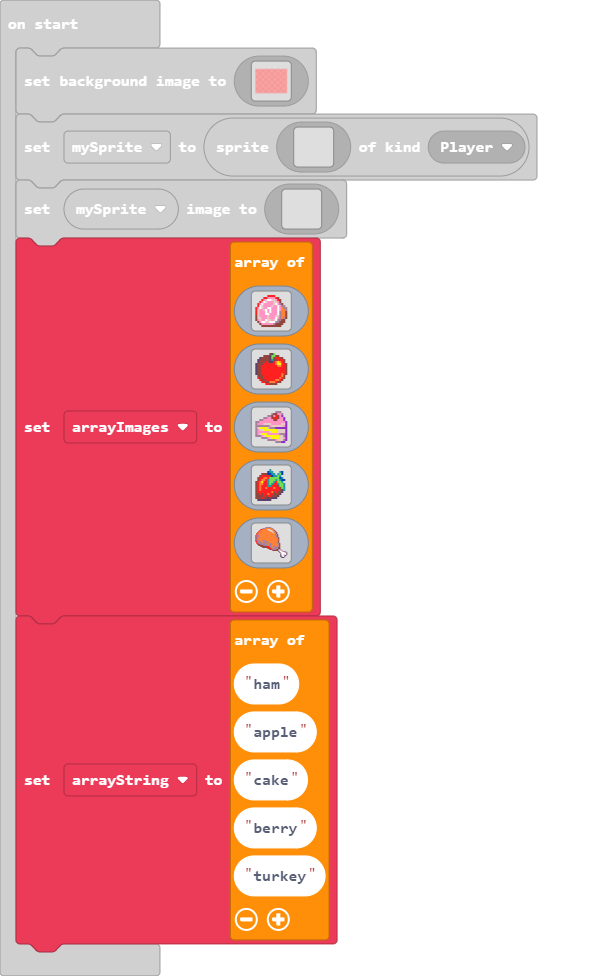
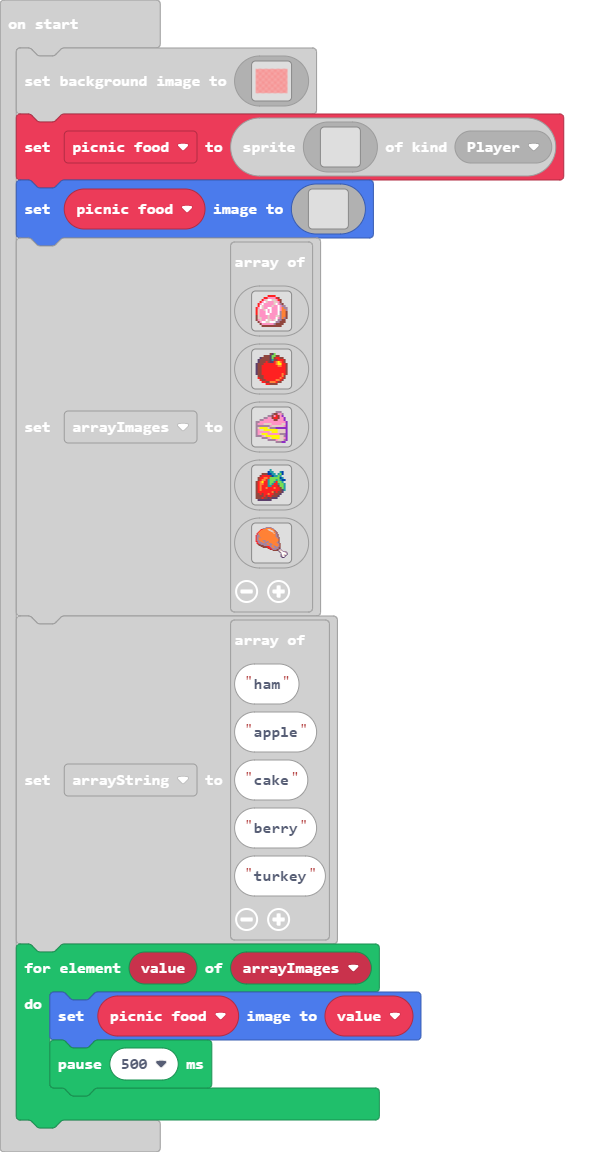
Update main.blocks, main.ts

diff --git a/main.ts b/main.ts
@@ -120,7 +120,7 @@ scene.setBackgroundImage(img`
     1112221112221112221112221112221112221112221112221112221112221112221112221112221112221112221112221112221112221112221112221112221112221112221112221112221112221112
     1112221112221112221112221112221112221112221112221112221112221112221112221112221112221112221112221112221112221112221112221112221112221112221112221112221112221112
     `)
-let mySprite = sprites.create(img`
+let picnic_food = sprites.create(img`
     . . . . . . . . . . . . . . . . 
     . . . . . . . . . . . . . . . . 
     . . . . . . . . . . . . . . . . 
@@ -138,7 +138,7 @@ let mySprite = sprites.create(img`
     . . . . . . . . . . . . . . . . 
     . . . . . . . . . . . . . . . . 
     `, SpriteKind.Player)
-mySprite.setImage(img`
+picnic_food.setImage(img`
     . . . . . . . . . . . . . . . . 
     . . . . . . . . . . . . . . . . 
     . . . . . . . . . . . . . . . . 
@@ -271,3 +271,7 @@ let arrayString = [
 "berry",
 "turkey"
 ]
+for (let value of arrayImages) {
+    picnic_food.setImage(value)
+    pause(500)
+}
